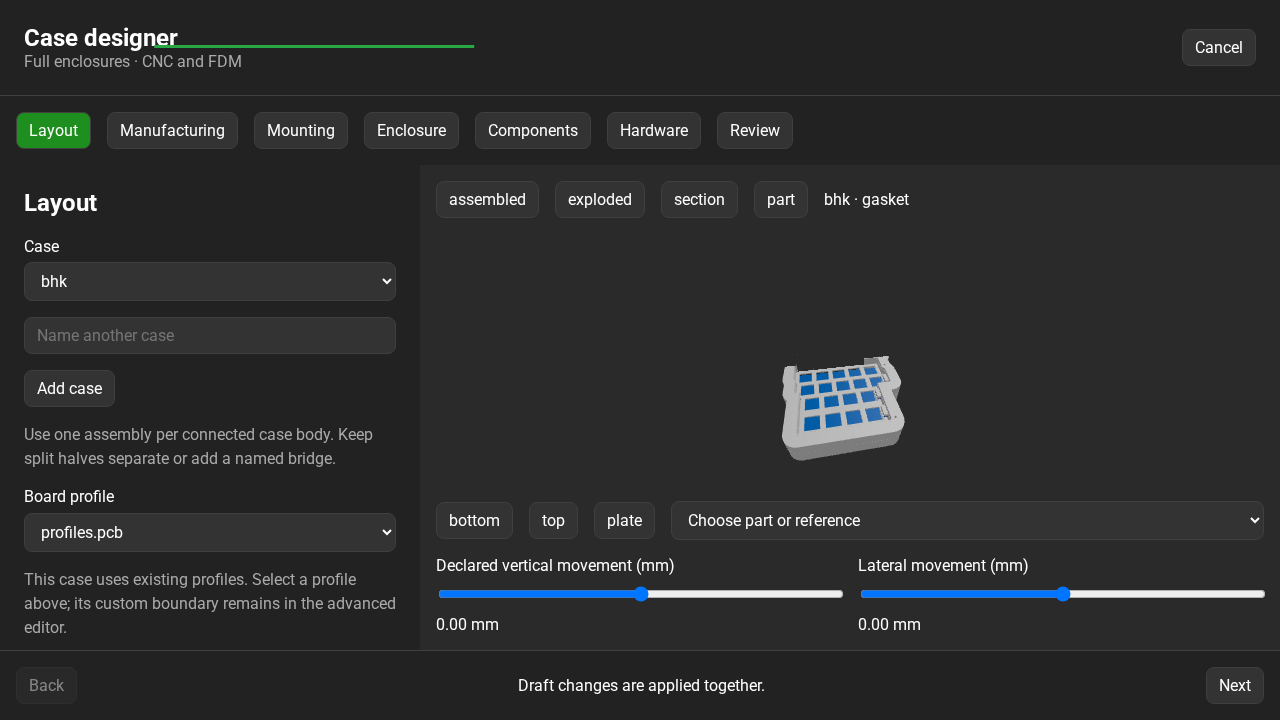
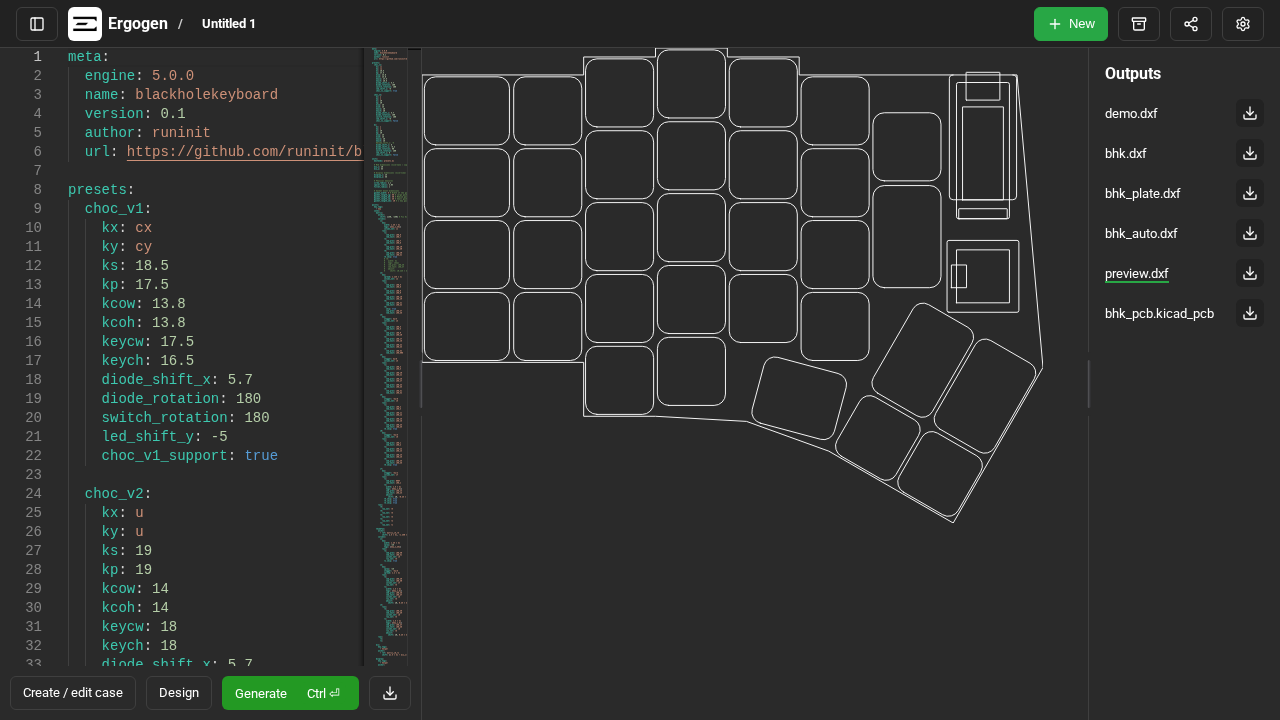
Restore the original BHK example

diff --git a/e2e/enclosures.spec.ts b/e2e/enclosures.spec.ts
@@ -1,7 +1,7 @@
 import { test, expect, Page } from '@playwright/test';
 import { readFileSync } from 'node:fs';
 import JSZip from 'jszip';
-import BHK from '../src/examples/enclosure-bhk';
+import gasketCase from './fixtures/gasket-case';
 import BHKLayout from '../src/examples/bhk';
 
 const source =
@@ -125,22 +125,22 @@ test('creates a full gasket case through forms, exports and applies one undo ste
   await expect.poll(() => saved(page)).toBe(original);
 });
 
-test('reopens the BHK enclosure offline without touching production storage', async ({
+test('reopens a gasket enclosure offline without touching production storage', async ({
   page,
   context,
 }) => {
-  await load(page, BHK.value);
+  await load(page, gasketCase);
   let dialog = await open(page);
   await ready(page);
   await dialog.getByRole('button', { name: 'section', exact: true }).click();
   await page.screenshot({
-    path: 'test-results/bhk-enclosure-section.png',
+    path: 'test-results/gasket-enclosure-section.png',
     fullPage: true,
   });
   await dialog.getByRole('button', { name: 'part', exact: true }).click();
   await dialog.getByRole('button', { name: 'bottom', exact: true }).click();
   await page.screenshot({
-    path: 'test-results/bhk-enclosure-bottom.png',
+    path: 'test-results/gasket-enclosure-bottom.png',
     fullPage: true,
   });
   await dialog.getByRole('button', { name: 'Cancel', exact: true }).click();

diff --git a/e2e/bhk.spec.ts b/e2e/bhk.spec.ts
@@ -9,6 +9,9 @@ test('loads the BHK example and regenerates it offline', async ({
   context,
 }) => {
   await page.goto('./new');
+  await expect(
+    page.getByLabel('Load BHK gasket enclosure example', { exact: true })
+  ).toHaveCount(0);
   await page.getByLabel('Load BHK example', { exact: true }).click();
   const downloadButton = page.getByTestId(
     'downloads-container-bhk_pcb-kicad_pcb-download'
@@ -20,6 +23,18 @@ test('loads the BHK example and regenerates it offline', async ({
     const download = await pending;
     return readFileSync((await download.path())!, 'utf8');
   };
+  for (const outline of ['bhk', 'bhk_plate', 'bhk_auto', 'preview']) {
+    await expect(
+      page.getByTestId(`downloads-container-${outline}-dxf-download`)
+    ).toBeVisible();
+  }
+  await page.getByTestId('downloads-container-preview-dxf-preview').click();
+  await expect(
+    page.getByLabel(/^SVG preview for outlines\.preview\.svg/)
+  ).toBeVisible();
+  await page.screenshot({
+    path: test.info().outputPath('bhk-original-outline.png'),
+  });
   const board = await getBoard();
   expect(board).toContain('THQWGD001C');
   expect(board).toContain('Capacitor_0603');

diff --git a/src/examples/index.test.ts b/src/examples/index.test.ts
@@ -1,0 +1,25 @@
+import { expect, it } from 'vitest';
+import { createHash } from 'node:crypto';
+import { parse } from 'yaml';
+import { exampleOptions } from './index';
+import BHK from './bhk';
+
+// Source from the published pre-enclosure revision 3c30c6b.
+const ORIGINAL_BHK_SHA256 =
[1 lines of base64/hex data omitted]
+
+it('offers the original BHK design without a migrated replacement', () => {
+  const examples = exampleOptions.flatMap((group) => group.options);
+  expect(examples.filter((example) => /bhk/i.test(example.label))).toEqual([
+    BHK,
+  ]);
+  expect(createHash('sha256').update(BHK.value).digest('hex')).toBe(
+    ORIGINAL_BHK_SHA256
+  );
+  const config = parse(BHK.value);
+  expect(config.designs).toBeUndefined();
+  expect(Object.keys(config.outlines)).toEqual(
+    expect.arrayContaining(['bhk', 'bhk_plate', 'bhk_auto', 'preview'])
+  );
+  expect(config.pcbs.bhk_pcb.outlines.board.outline).toBe('bhk');
+});

diff --git a/e2e/fixtures/gasket-case.ts b/e2e/fixtures/gasket-case.ts
@@ -1,0 +1,32 @@
+// A synthetic layout keeps offline CAD coverage independent of user designs.
+export default `points:
+  zones:
+    keys:
+      columns: {left: {}, right: {}}
+      rows: {home: {}, top: {}}
+outlines:
+  source: [{what: rectangle, size: [60, 60]}]
+designs:
+  regions:
+    board: {outline: source}
+    switches: {where: true, size: 14}
+  profiles:
+    board: {from: regions.board}
+  assemblies:
+    case:
+      preset: enclosure
+      profile: profiles.board
+      mounting: gasket
+      wall: 3
+      floor: 2
+      height: 24
+      plate: 1.5
+      plate_z: 13
+      bezel: 8
+      fit: 0.3
+      cutouts: [regions.switches]
+      gaskets:
+        left:
+          anchor: {shift: [-30, 0]}
+          size: [6, 10]
+`;

diff --git a/src/examples/index.ts b/src/examples/index.ts
@@ -11,7 +11,6 @@ import Alpha from './alpha';
 import Plank from './plank';
 import Curly45 from './curly45';
 import BHK from './bhk';
-import EnclosureBHK from './enclosure-bhk';
 
 /**
  * Represents a group of configuration options for the react-select component.
@@ -60,7 +59,7 @@ const completeExamples = [
   Tiny20,
 ];
 
-const miscExamples = [EnclosureBHK, Wubbo, Alpha, Plank, Curly45];
+const miscExamples = [Wubbo, Alpha, Plank, Curly45];
 
 /**
  * An array of grouped example configurations to be displayed in the select dropdown.

diff --git a/CHANGELOG.md b/CHANGELOG.md
@@ -4,7 +4,7 @@
 
 September 8, 2026
 
-![BHK enclosure in the case designer.](./public/images/changelog/enclosure-wizard.png)
+![Original BHK outline and outputs.](./public/images/changelog/enclosure-wizard.png)
 
 Create cases with continuous walls, separate shells and a switch plate. The
 guided designer supports tray, top, bottom and floating gasket mounts, with
@@ -12,7 +12,9 @@ pad or sleeve interfaces and independent case screws.
 
 Choose FDM or CNC per part, review declared manufacturing limits, and export
 STEP/STL from the same solids. Draft previews stay separate until Apply; Cancel
-discards edits. The BHK gasket enclosure example demonstrates the complete flow.
+discards edits. The original BHK design remains available with its complete
+outlines and PCB. The migrated enclosure example was removed because it changed
+the board boundary and omitted PCB generation.
 
 Point checkboxes now preserve the remaining selections and valid YAML. Failed
 previews retain profile choices, and existing board outlines can resolve a

diff --git a/ENCLOSURES.md b/ENCLOSURES.md
@@ -1,7 +1,10 @@
 # Case designer
 
-Open a layout, then choose **Create / edit case** beside Generate. For a complete
-example, choose **BHK gasket enclosure** on the welcome page.
+Open a layout, then choose **Create / edit case** beside Generate.
+The **BHK** welcome-page example retains its original outlines and PCB.
+The migrated BHK enclosure example has been removed; case generation works
+with the original configuration. Reload **New → BHK** to replace a previously
+loaded migrated example.
 
 1. **Layout:** choose a board profile and included points. Give split halves
    separate case names, or add a bridge between connected anchor regions.

diff --git a/DEVELOPMENT.md b/DEVELOPMENT.md
@@ -539,3 +539,7 @@ native STEP/STL pipeline, process reports and isolated preview deployment.
 Scalar-to-selection edits use inline YAML collections to retain surrounding
 source. Form edits are parsed before replacing the draft; declared profile
 choices remain available when native generation fails.
+
+The shipped BHK example retains its original source, outlines and PCB.
+Offline CAD tests use a synthetic gasket fixture; BHK browser tests cover
+the original preview and case generation from its existing board outline.
